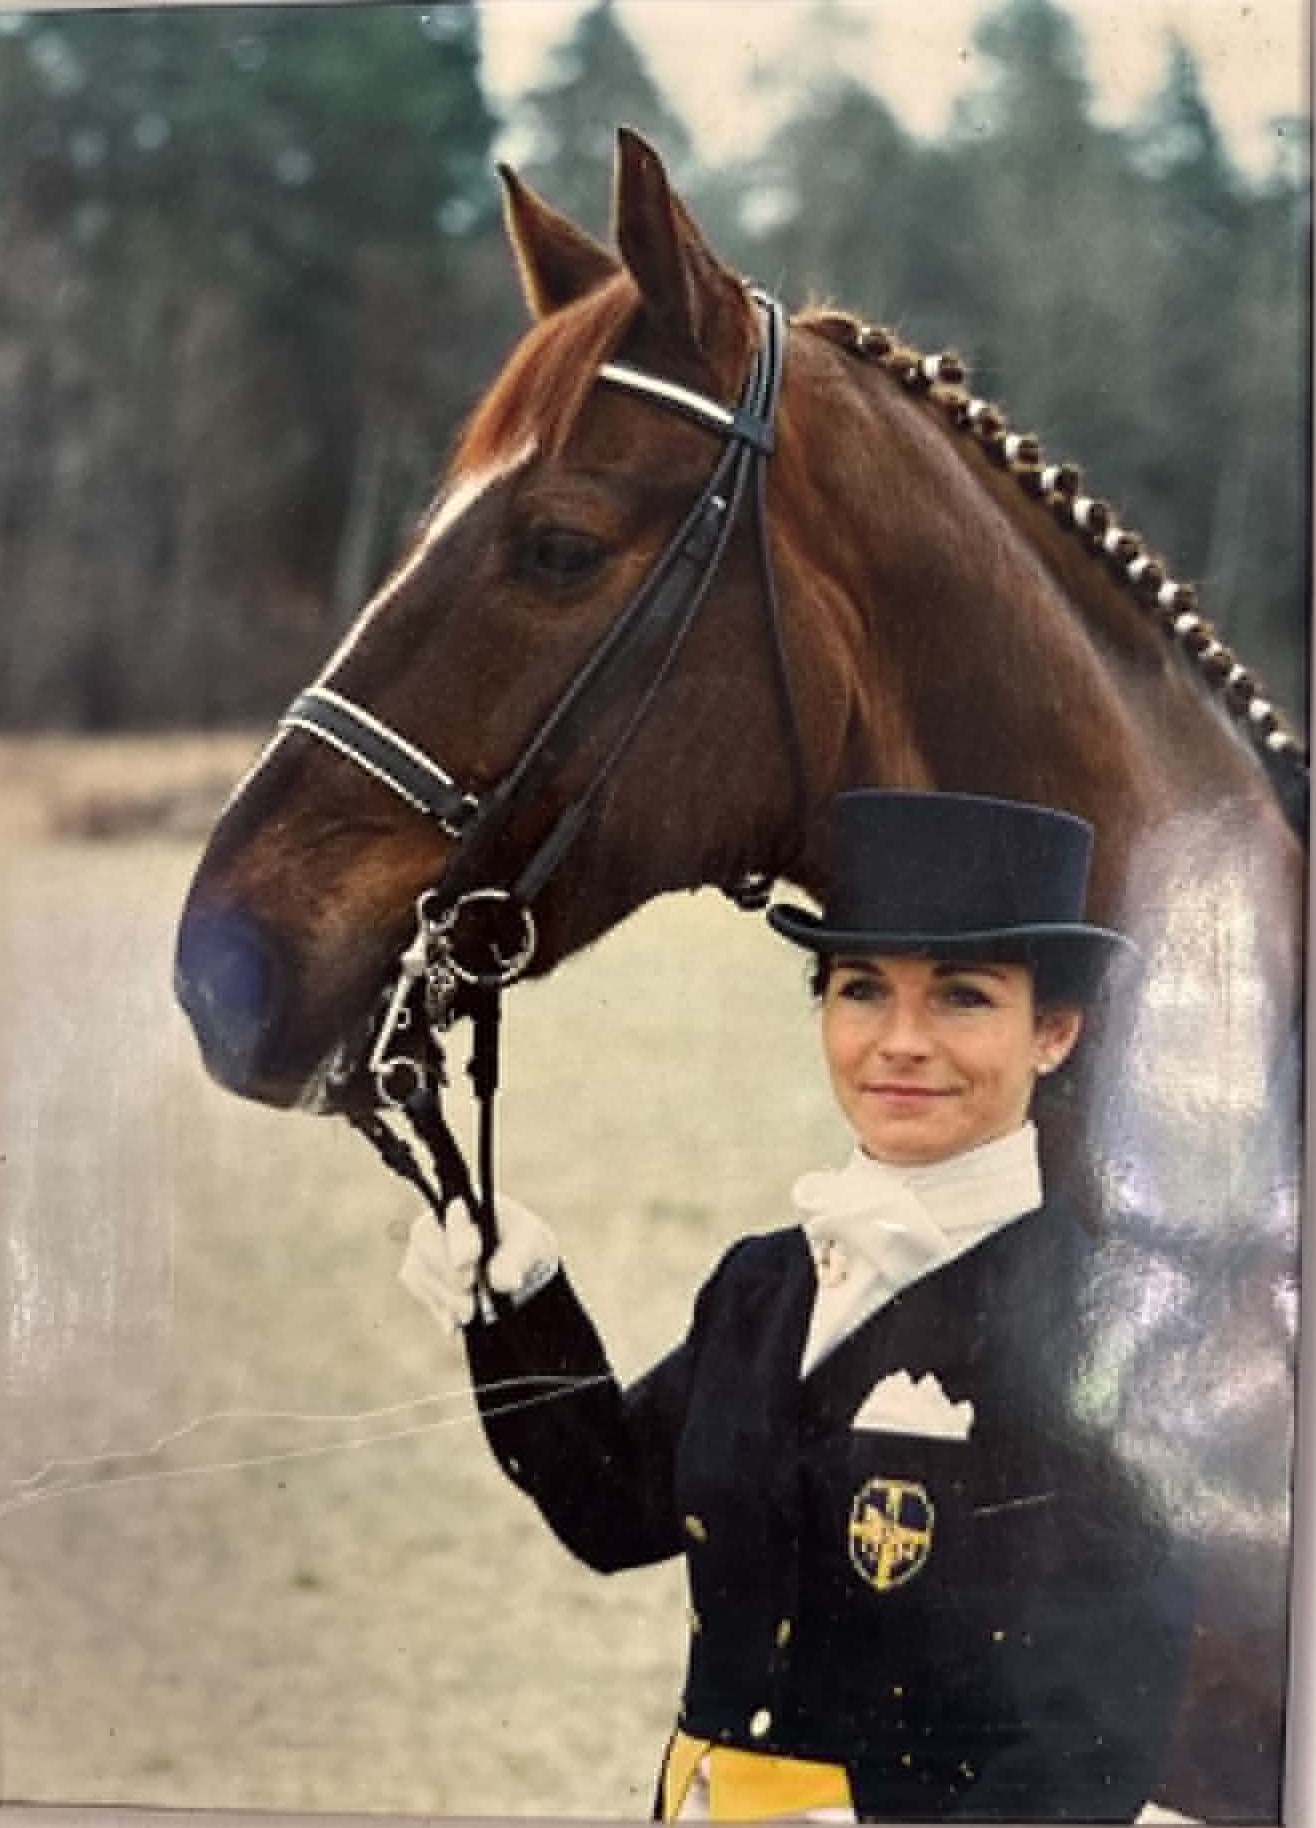
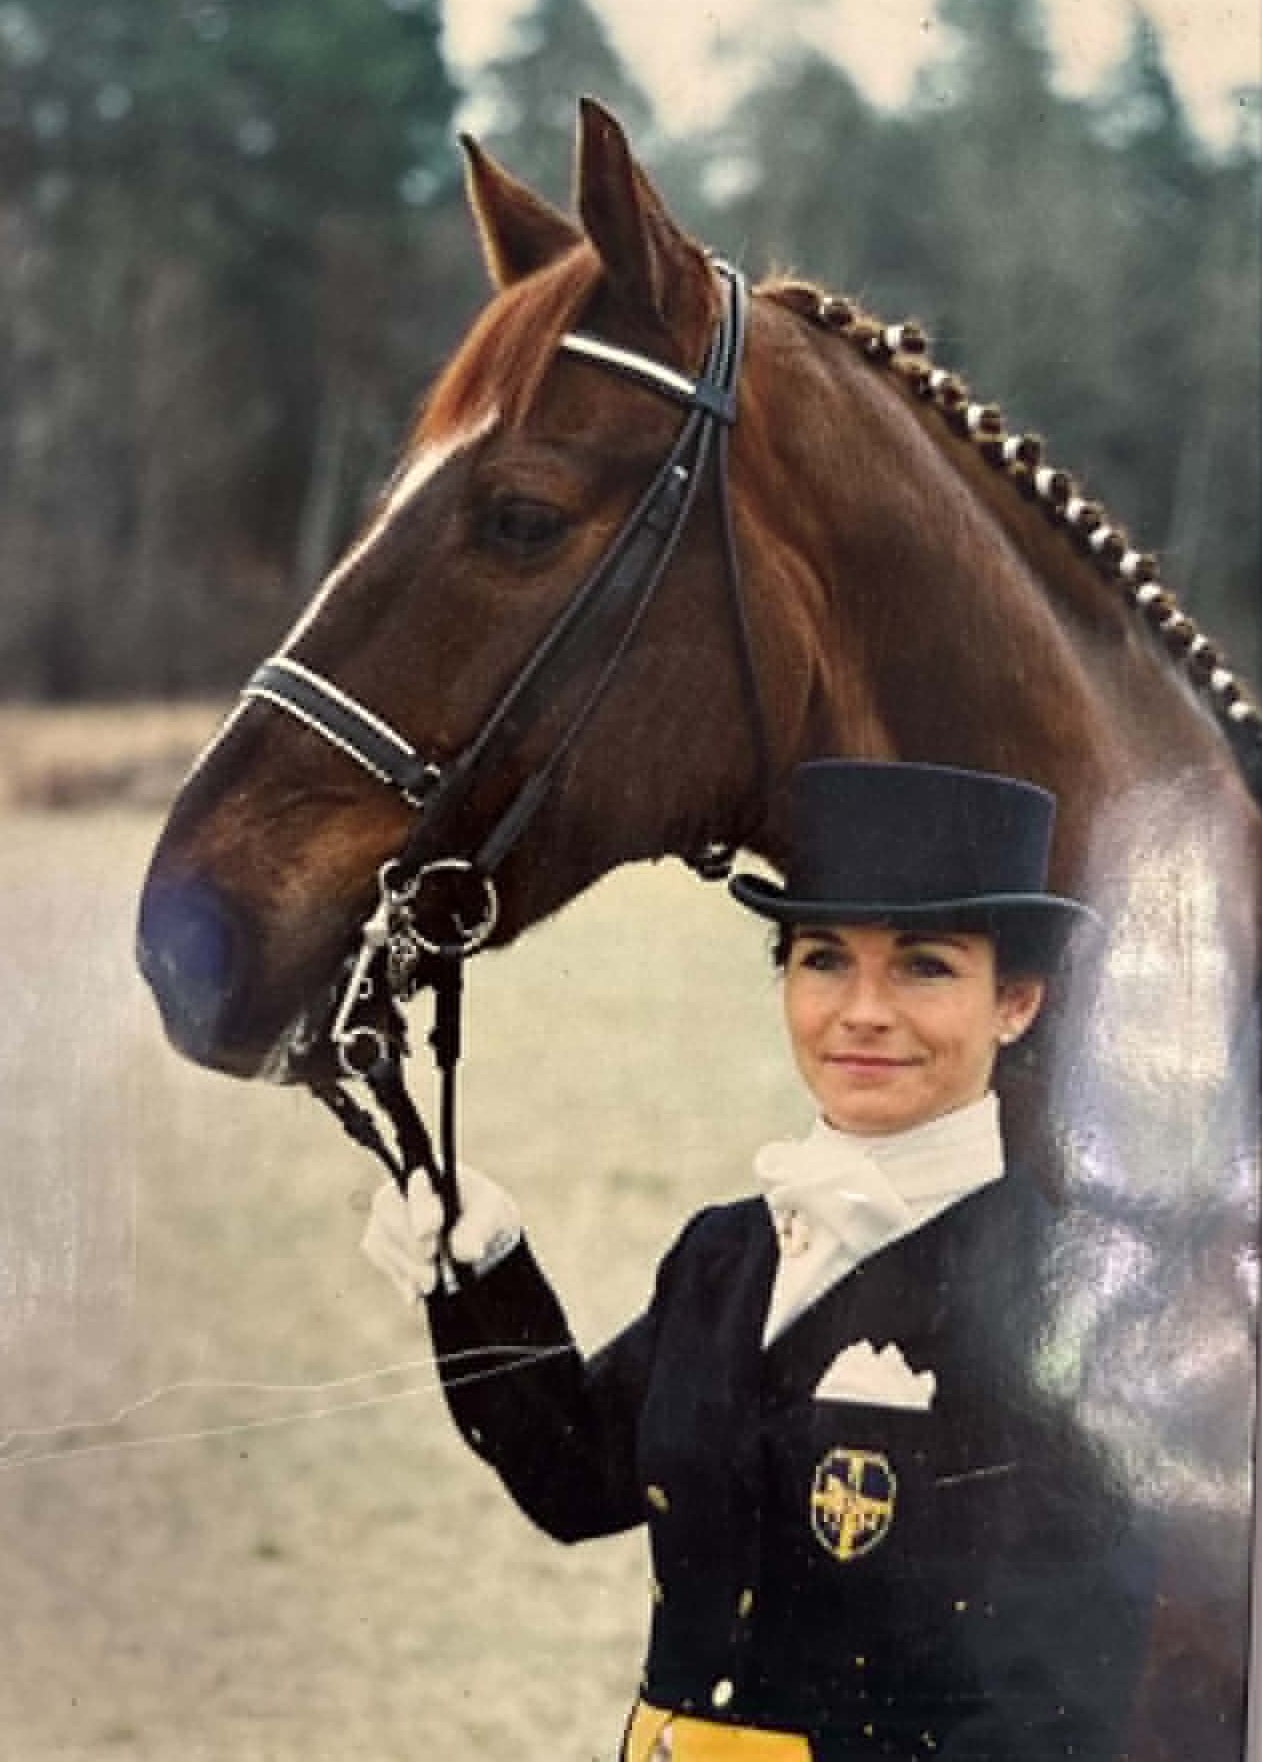
Om Lena: beskur Lena-portratt hardare (ram helt bort), cache v3

diff --git a/om.html b/om.html
@@ -47,7 +47,7 @@
 <section class="section bg-cream">
   <div class="container split">
     <div class="split__media">
-      <img class="media-img tall" src="assets/lena-portratt.jpg?v=2" alt="Lena Lilja i frack och hög hatt med sin dressyrhäst">
+      <img class="media-img tall" src="assets/lena-portratt.jpg?v=3" alt="Lena Lilja i frack och hög hatt med sin dressyrhäst">
       <figure class="mini-fig">
         <img src="assets/dagny.jpg?v=2" alt="Dagny Nelson, Lenas mamma och balettdansös">
         <figcaption>Lenas mamma Dagny Nelson – premiärdansös och första danspedagogen på Södra Latin. Härifrån kommer namnet Hästbaletten.</figcaption>
